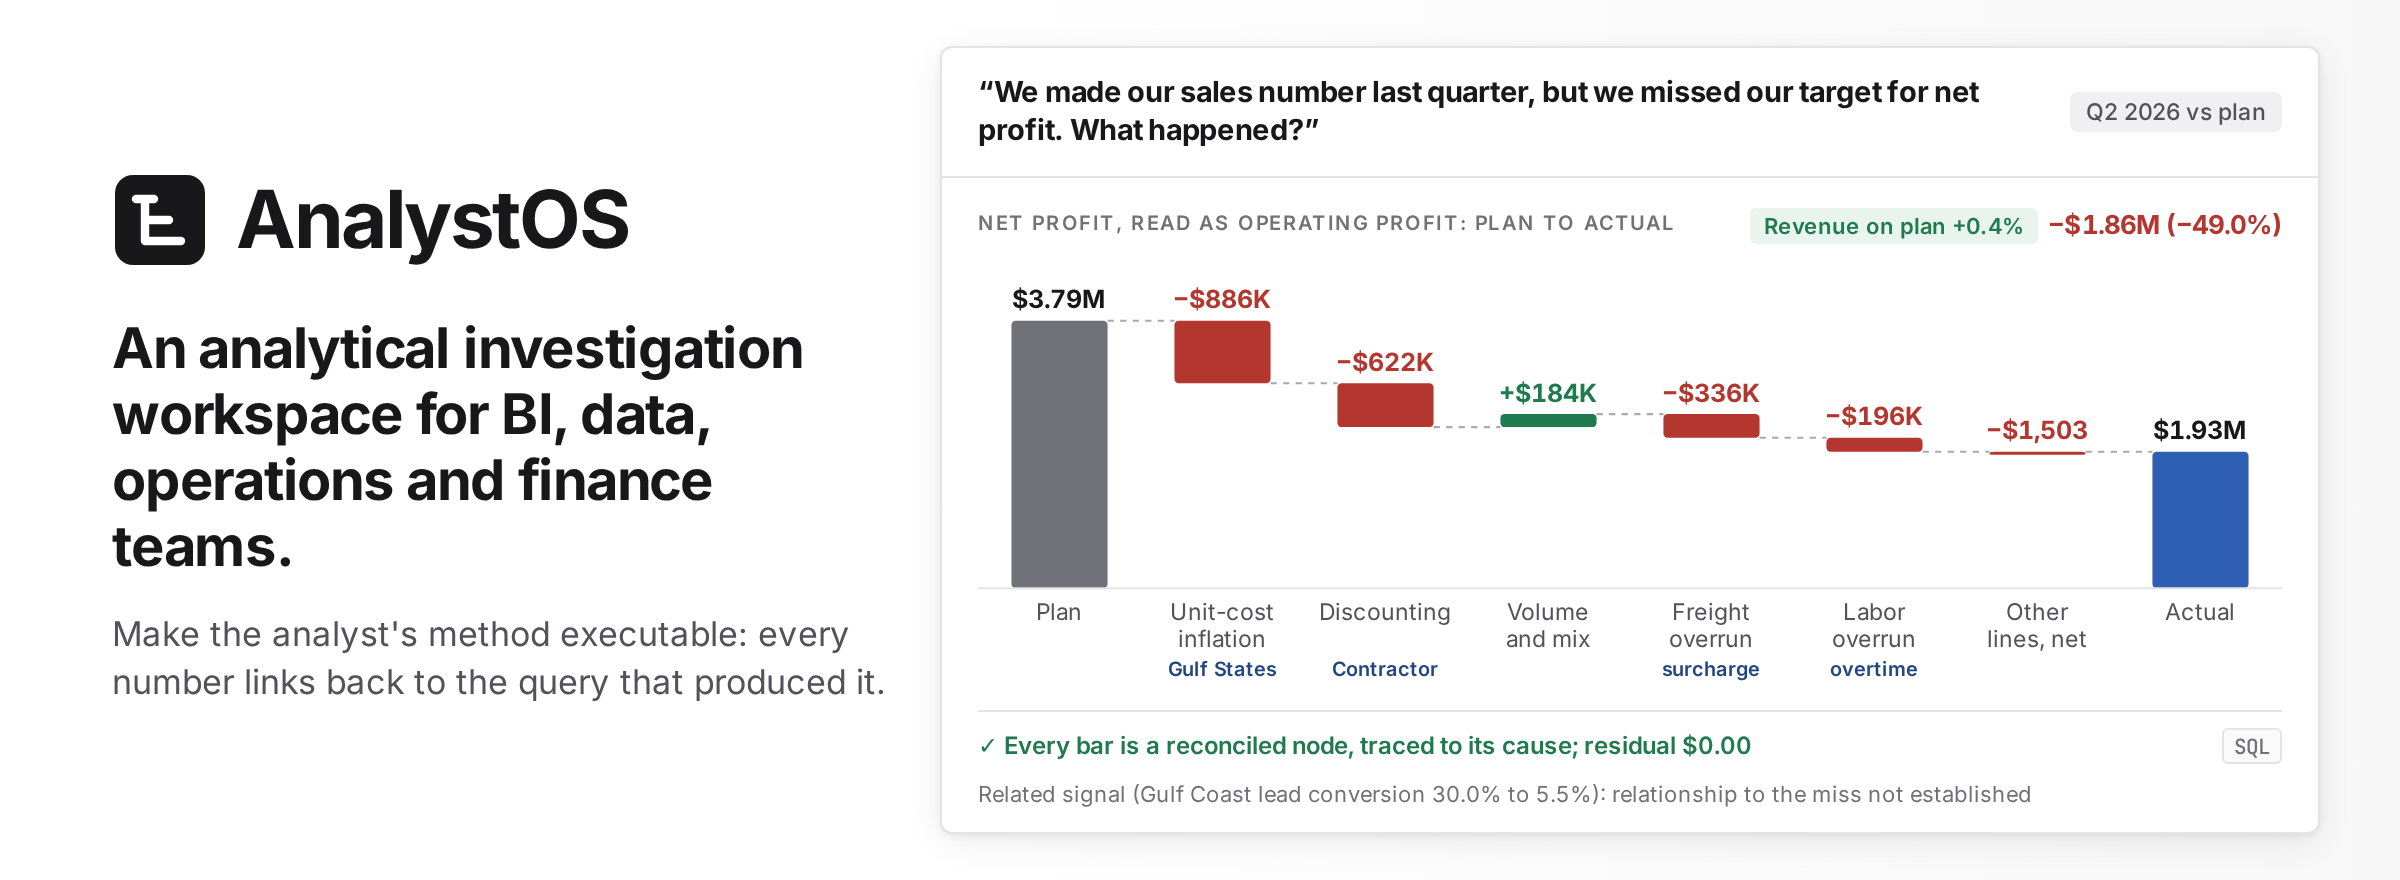
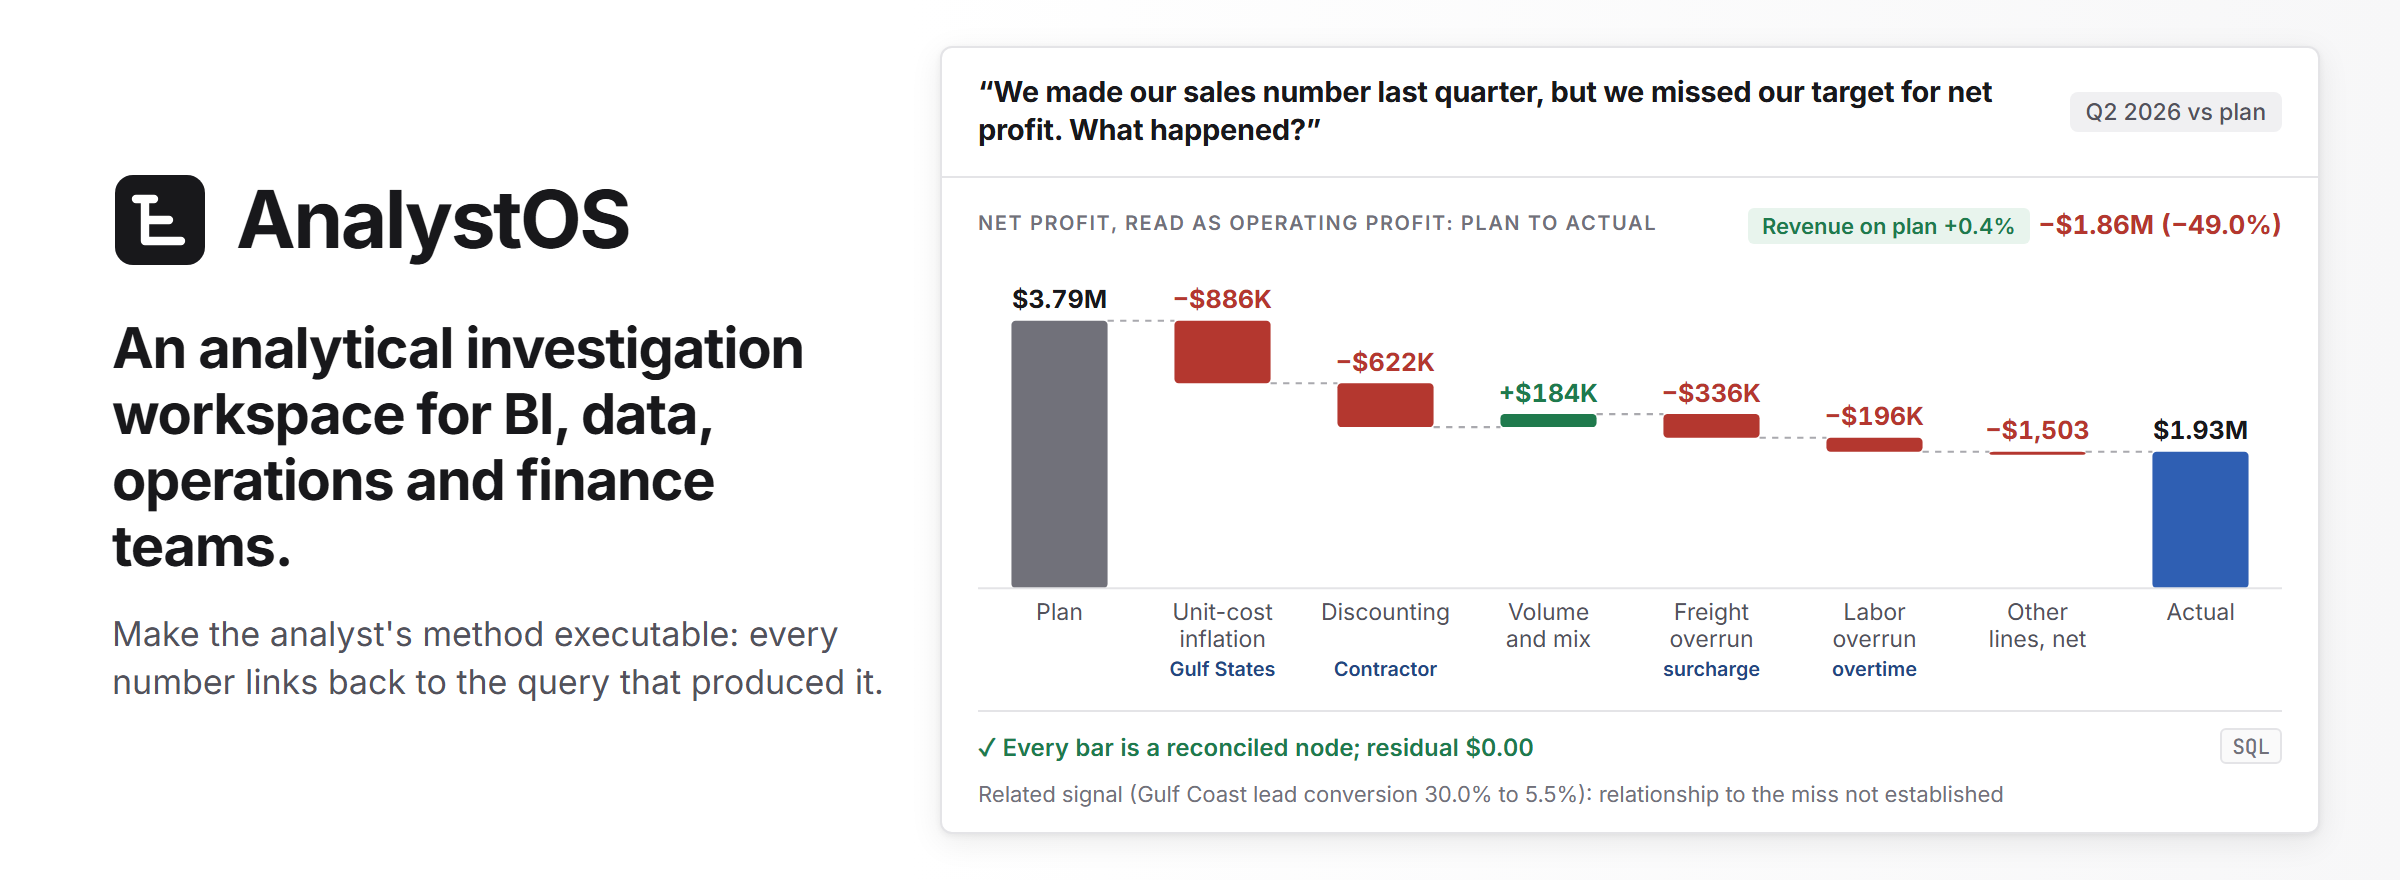
Drop the causal claim from the title card
The card said every bar was traced to its cause, while the project reports attribution. It now says each bar reconciles, which is what the engine shows.

diff --git a/docs/src/title-card.html b/docs/src/title-card.html
@@ -160,7 +160,7 @@
         <line x1="0" x2="624" y1="158" y2="158" class="base"/>
       </svg>
       <div class="foot">
-        <div class="recon num">&#10003; Every bar is a reconciled node, traced to its cause; residual $0.00</div>
+        <div class="recon num">&#10003; Every bar is a reconciled node; residual $0.00</div>
         <span class="sql">SQL</span>
       </div>
       <div class="signal">Related signal (Gulf Coast lead conversion 30.0% to 5.5%): relationship to the miss not established</div>
